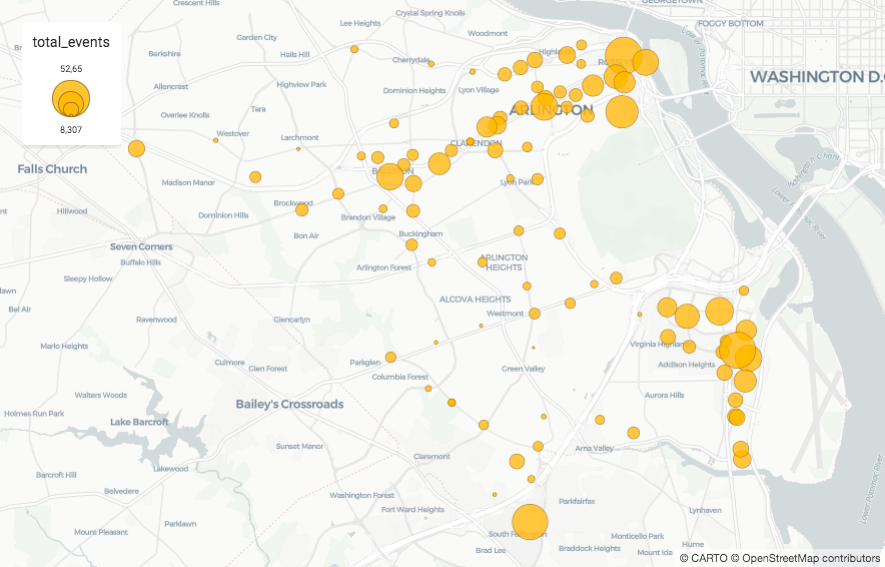
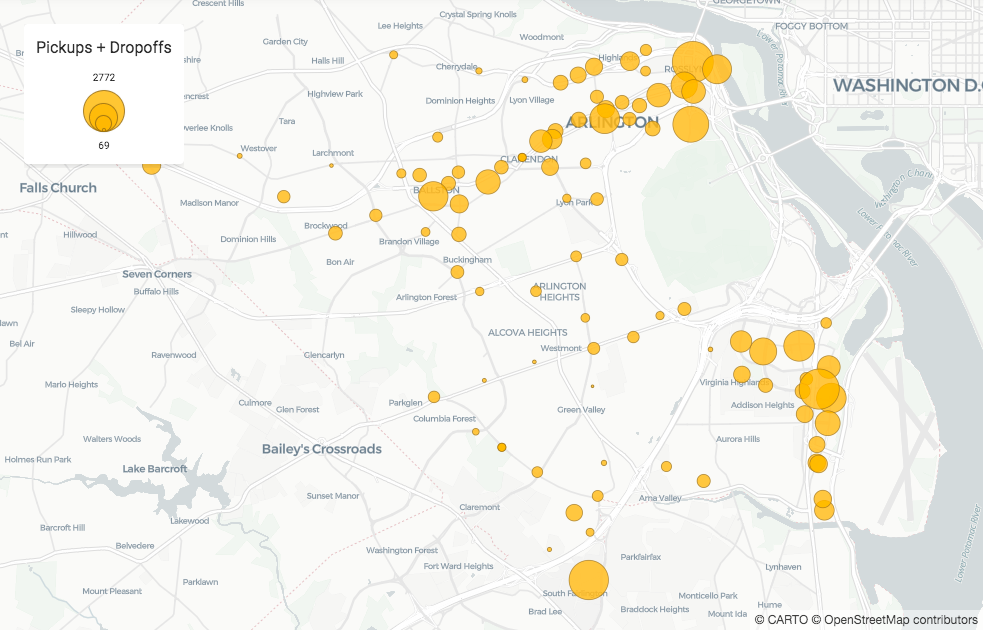
Update quickstart guide with data, analysis and share steps

diff --git a/docs/developer-center/new-guides/quickstart.md b/docs/developer-center/new-guides/quickstart.md
@@ -1,75 +1,185 @@
 ## Quickstart
 
-Hi! Glad to see you around! This guide walks you through the common steps a data scientist has to follow in their spatial analyses and how CARTOframes can help in each of them. We will follow a real use case to show it. We encourage you to have your environment ready so you can learn how to use the library by using it. If you haven't done it yet, check this guide.
+Hi! Glad to see you made it to the Quickstart guide! In this guide you are introduced to how CARTOframes can be used by data scientists in spatial analysis workflows. Using bike share data, this guide walks through some common steps a data scientist takes to answer the following question: are the company's bike share stations placed in optimal locations?
 
-### Real use case
+Before you get started, we encourage you to have your environment ready so you can get a feel for the library by using it. If you don’t have your environment set-up yet, check out this guide first. You will need:
 
-Imagine that you are a data scientist at a bikesharing company and you want to know how well the company has placed their stations. Apart from that, you would also like to recommend new spots so the company can continue growing. Before starting, you list the steps you have to follow to achieve it:
+- A python notebook environment
+- The CARTOframes library installed
 
-- Get and explore company's data
-- Discover and get meaninful data
-- Analyse which are the best and worst spots
-- Share the results with your team
+### Spatial analysis scenario
 
-Let's start!
+Let's say you work for a bike share company in Arlington, Virginia and you want to better understand how your stations around the city are being used, and if these stations are placed in optimal locations.
 
+To begin, let's outline a workflow: 
 
-### Get and explore company's data
+- Explore your company's data
+- Discover and enrich data thanks to the CARTO catalog
+- Analyse if the current bike stations are placed in optimal locations
+- And finally, share the results of your analysis with your team
 
-In order to start your work, you ask your team where you can find data about the bike stations. A team mate sends you the following file: TODO. This file contains information about the bike stations at Arlington and you check it using a pandas dataframe.
+Let's get started!
+
+### Explore your company's data
+
+[This](../img/new-guides/quickstart/arlington_bikeshare_july_agg.geojson) is the dataset in [geojson](https://geojson.org) format you have to start your exploration. It contains information about the bike stations around the city of Arlington. As a first exploratory step, you read it into a Jupyter Notebook using a [Geopandas GeoDataframe](http://geopandas.org/reference/geopandas.GeoDataFrame.html).
 
 ```py
-import pandas as pd
+import geopandas as gpd
 
-arlington_file = 'arlington_bikeshare_july_agg.csv'
-df = pd.read_csv(arlington_file)
-df.head(3)
+arlington_file = 'arlington_bikeshare_july_agg.geojson'
+bikeshare_df = gpd.read_file(arlington_file)
+bikeshare_df.head(3)
 ```
 
 ![Bikeshare data](../img/new-guides/quickstart/initial_dataframe.png)
 
-As you can see, reading a dataframe doesn't let you understand quickly where the stations are. You think it will be awesome to show the data in a map but before doing that, you need to transform the `intersection` column into geometries. This process is called geocoding and the CARTO platform provides an easy way to do it (you can know more about it in their own guide).
+By only reading the data into a geodataframe you aren't able to see at a glance where the stations are. So let's visualize it in a map!
 
-Let's log in to CARTO to continue. If you don't have an account yet, you can get a free account if you are a student or get a trial if you aren't. Learn more about it and how to get an API key checking the authentication guide.
+Note: In case your data hasn't been geocoded before, you can do it thanks to our Location Data Services. Learn how to geocode your data reading the [geocoding guide]().
 
-Note: if your data is already geocoded, you can visualize it without a CARTO account.
-
-```py
-from cartoframes.auth import set_default_credentials
-
-set_default_credentials(username='username', api_key='your_api_key')
-```
-
-Now, we are already prepared to geocode the dataframe:
-
-```py
-from cartoframes.data.services import Geocode
-
-gc = Geocode()
-df, info = gc.geocode(df, street='intersection', state="'Virginia'", city="'Arlington'", country="'US'")
-df.head(3)
-```
-![Bikeshare data](../img/new-guides/quickstart/geocoded_dataframe.png)
-
-Done! That was easy, isn't it? Now we have a new column called `the_geom` with the geometries so we are prepared to visualize the data on a map. You can easily visualize your dataframes thanks to the Map and Layer classes. Check the visualization guide to know all the visualization possibilities and check the sources guide to know about which data sources are supported.
+You can visualize your geodataframes using the [Map]() and [Layer]() classes. Check the [visualization guide]() to know all the visualization possibilities and check the [sources guide]() to know about which data sources are supported.
 
 ```py
 from cartoframes.viz import Map, Layer
 
-Map(Layer(df))
+Map(Layer(bikeshare_df))
 ```
 
 ![Bikeshare data](../img/new-guides/quickstart/explore_layer.png)
 
-Great! Now, you have a better sense about where the stations are. To continue with your exploration, you want to know which are the stations with more activity. To do so, you can use the `size_continuous_layer` visualization helper taking into account the `total_events` column as the one that determines the activity:
+Great! We have a map!
+
+Now, that you have a better sense of about where the stations are located, it's time to continue with the exploration. The next question to answer is which stations around the city are most active. To visualize this on the map, you can use a CARTOframes layer helper. Using the column `total_events`, which is the number of dropoffs and pickups at each station for the past month, let’s try a visualization helper called `size_continuous_layer` to size each station by that value:
 
 ```py
 from cartoframes.viz.helpers import size_continuous_layer
 
-Map(size_continuous_layer(arlington_file, 'total_events'))
+Map(size_continuous_layer(bikeshare_df, 'total_events'))
 ```
 ![Bikeshare data](../img/new-guides/quickstart/explore_helper.png)
 
-Good job! Now, just taking a look, you can see where are the stations with more activity.
+Good job! Now, just taking a look, you can see where are the stations with more activity. Also, thanks to be using a helper, we get a legend out of it.
 
-To learn more about visualizating your data, about how to add legends, pop-ups, widgets and how to do it faster thanks to helpers, check the visualization guide.
+To learn more about visualizating your data, about how to add legends, pop-ups, widgets and how to do it faster thanks to helpers, check the [visualization guide]().
+
+
+### Discover and enrich data thanks to the CARTO catalog
+
+You already know where your company stations are and their activity, now you want to know if they are in optimal locations. You start thinking about which data could be valuable to validate that and decide to check if there can be any correlation with households with no car data. Let's see how CARTOframes can help you finding that data and enrich yours.
+
+First, we will use the CARTO [data observatory]() to discover the data we want, data about households with no cars. You can learn more about discovering data in the [data discovery guide]().
+
+```py
+from cartoframes.data.observatory.catalog import Catalog
+from cartoframes.data import enrichment
+
+countries = Catalog().countries()
+usa_datasets = countries.get("usa").datasets()
+acs_demo_tracts = usa_datasets.iloc[84]
+acs_no_car = acs_demo_tracts.variables().iloc[[88]]
+```
+
+Now that we have found the data we were looking for, let's filter out our area of intereset, Arlington. To do that, first we need to load Arlington's boundaries (they can be found [here](https://gisdata-arlgis.opendata.arcgis.com/datasets/census-tract-2010-polygons?geometry=-77.761%2C38.787%2C-76.772%2C38.974)):
+
+```py
+arlington_tracts = gpd.read_file('./data/tracts/1/Census_Tract_2010_Polygons.shp').to_crs({'init': 'epsg:4326'})
+```
+
+![Arlington tracts](../img/new-guides/quickstart/arlington_tracts.png)
+
+Let's continue enriching that area with the data we found before. To be able to do so, you have to log in to CARTO. You will need to create an API key and use the method `set_default_credentials` to create a session. If you haven't created an API key yet, check the [authentication guide]() to learn how to get it.
+
+Note: If you don't have an account yet, you can get a [free account]() if you are a student or [get a trial]() if you aren't.
+
+```py
+from cartoframes.auth import set_default_credentials
+
+set_default_credentials(username='your_username', api_key='your_api_key')
+```
+
+Now, that you are logged in, let's enrich the Arlington tracts with the households with no car data and visualize them with another layer helper, the `color_continuous_layer`:
+
+```py
+from cartoframes.data import enrichment
+from cartoframes.viz.helpers import color_continuous_layer
+
+arlington_no_car_df = enrichment.enrich_polygons(arlington_tracts, acs_no_car, {'no_car': 'SUM'}, data_geom_column='geometry_wkt')
+Map(color_continuous_layer(arlington_no_car_df, value='no_car', title='No cars households'))
+```
+
+![Bikeshare data](../img/new-guides/quickstart/enrich_helper.png)
+
+Nice! Thanks to our layer helper, we can already see which are the areas with the highest percentage of households with no cars. You can learn more about discovering and enriching your data in the [data guide]().
+
+### Analyse if the current bike stations are placed in optimal locations
+
+We can already suggest which are the areas where can make more sense to have a station looking at the ones that have more households with no cars. In this step, let's try to go a bit further and try to calculate which areas have significantly high or low numbers of them. We will use the open source library [pySAL](https://pysal.org) for that.
+
+You decide to use [Moran's I]() to measure the spatial autocorrelation and [Queen]() as the algorithm to decide which areas are considered neighbours. Once you are done with your analysis (here we are just showing a simplified version of it), you assign a label with the significance level to each station.
+
+```py
+from libpysal.weights import Queen
+from pysal.explore.esda.moran import Moran_Local
+
+wq = Queen.from_dataframe(arlington_no_car_df)
+wq.transform = 'r'
+li = Moran_Local(arlington_no_car_df['no_cars_2011_2015_by_households'], wq)
+significance = 1 * (li.p_sim < 0.05)
+spot_qs = [1, 3, 2, 4] # HH(hotspot), LL(coldspot), LH(doughnut), HL(diamond)
+spots = sum([i * (significance * li.q==i) for i in spot_qs])
+
+spot_labels = ['Not significant', 'Hot spot', 'Low outlier', 'Cold spot', 'Hot outlier']
+labels = [spot_labels[i] for i in spots]
+arlington_no_car_df = arlington_no_car_df.assign(cl=labels)
+```
+
+You have finished your analysis and now you want to see the results in a map, 
+plotting the significance of each area. Let's do it!	
+
+```py
+from cartoframes.viz.helpers import color_category_layer
+
+hmap = ['#E4E4E4','#1785FB', '#F24440', '#12A2B8']
+Map([color_category_layer(arlington_no_car_df, 'cl', title='Significance', palette=hmap, stroke_color='#B5B5B5'),
+     size_continuous_layer(bikeshare_df, 'total_events', 'Pickups + Dropoffs')])
+```
+
+![Bikeshare data](../img/new-guides/quickstart/analyze_helper.png)
+
+Awesome! You have finished with your analysis and see that your company has done a good job placing the stations.
+
+### Publish and share your results
+
+To finish your work, you want to share the results with some teammates. Also, it would be great if you could allow them to play with the information. Let's do that!
+
+First, you have to upload the data used by your maps to CARTO using the [Dataset]() class:
+
+```py
+from cartoframes.data import Dataset
+
+Dataset(arlington_no_car_df).upload(table_name='arlington_ct_no_cars', credentials=creds, if_exists='replace')
+Dataset(bikeshare_df).upload(table_name='bikeshare_july_agg', credentials=creds, if_exists='replace')
+```
+
+Now, let's add widgets so people are able to see some graphs about the information displayed and allow them to filter it. To do this, we only have to add `widget=True` to the helpers. Remember to check the [visualization guide]() to learn more about it.
+
+```py
+final_map = Map([
+    color_category_layer('arlington_ct_no_cars', 'cl', title='Significance', palette=hmap, stroke_color='#B5B5B5', widget=True),
+    size_continuous_layer('bikeshare_july_agg', 'total_events', 'Pickups + Dropoffs', widget=True)
+])
+final_map
+```
+
+![Bikeshare data](../img/new-guides/quickstart/share_helper.png)
+
+Cool! Now that you have a small dashboard to play with, let's publish it to CARTO so you are able to share it with anyone. To do this, you just need to call the [publish]() method from the [Map]() class:
+
+```py
+final_map.publish('bikeshare_spots')
+```
+
+![Bikeshare data](../img/new-guides/quickstart/share_output.png)
+
+Congratulations! You have finished this guide and have a sense about how CARTOframes can speed up your workflow. To continue learning, you can check the specific guides, check the [reference]() to know everything about a class or a method or check the notebook [examples]().
